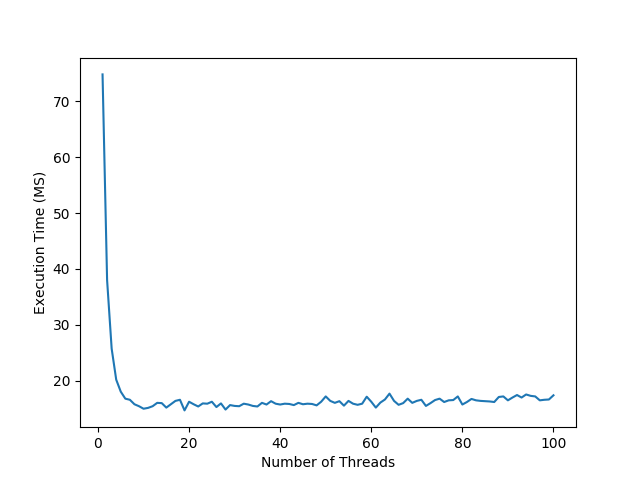
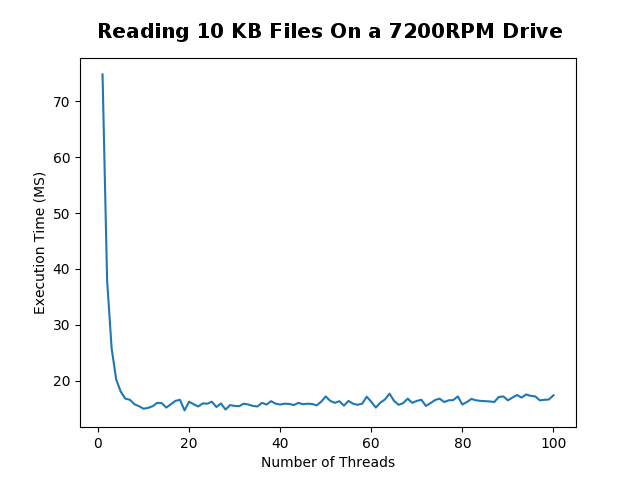
Finished writing blog post on multi threaded file io performance.

Changed region(s): [[0.1562, 0.0312, 0.875, 0.0938]]

diff --git a/blogContent/posts/programming/multi-threaded-file-io.md b/blogContent/posts/programming/multi-threaded-file-io.md
@@ -1,0 +1,316 @@
+# Background
+
+Suppose that you have a large quantity of files that you want your program to ingest.
+Is it faster to sequentially read each file or, read the files in parallel using multiple threads?
+Browsing this question online will give varied answers from confused people on discussion threads.
+Reading resent research papers on multi threaded IO did not quite provide a clear answer my question.
+
+A ton of people argue that multiple threads don't increase file throughput
+ because at the end of the day a HHD can only read
+one file at a time. Adding more CPU cores into the mix would
+actually slow down the file ingest because the HHD would have to 
+take turns between reading fragments of different files. The seek speed of the HHD would
+heavily degrade the performance.
+
+Other people on the internet claim that using the same number of
+threads as your computer has is the most efficient way to read in files.
+With these claims I did not find any evidence backing their statements.
+However, I did find plenty of dead links -- you gotta love old internet forms. 
+The argument typically goes that using more threads will decrease the idle time of
+the HHD. Plus, if you are running any form of raid or software storage like
+[CEPH](https://ceph.com/ceph-storage/) you have plenty to gain from using multiple threads.
+If you use more threads than your CPU has, you will obviously suffer performance wise because
+the threads will be idle while they wait for each other to finish. 
+
+I decided to set out and determine what was the fastest approach by taking empirical measurements.
+
+# Results
+
+## Small Files
+I started the experiment by reading 500 randomly generated 
+ 10 KB text files. I tested using a few hard drive types and 
+configurations. The computer which I ran all the tests on
+ has a Ryzen 1700x processor with 16 threads and 8 cores. 
+ Each test point took a sample of 20 trials to find the average. 
+ 
+![slow HHD reading 500 10kb files](media/fileIO/100ThreadsOldSpinningHHD.png) 
+  
+![slow HHD reading 500 10kb files](media/fileIO/slowDrive500.png)   
+
+![Raidz 2 500 10kb files](media/fileIO/FreenasServer.png)   
+
+![nvme SSD drive](media/fileIO/nvmeDrive.png)
+
+![nvme SSD drive](media/fileIO/nvme500Threads.png)   
+
+## Big Files
+
+After seeing the astonishing results of reading 10 KB files,
+I wondered if anything changed if the files were larger.
+Unlike the last set of trials, I did not take a sample size
+to calculate the average. Although it would have made smoother graphs,
+that would have taken way too long to do on the HHD I was using. 
+I only tested with 1 MB and 3.6 MB as the "large" files because any larger
+files *really* slowed down the tests. I initially wanted to test with 18 MB
+files running 10 trials at each thread interval. I backed away from doing that
+because it would have required terabytes of file IO to be performed and, Java *really* does
+not like to read 18 MB files as strings. 
+
+![1MB files](media/fileIO/1mbFilesx124OldHHD.png)   
+
+![3.6MB files](media/fileIO/3.6MBFilex31.png)
+
+# Conclusions
+
+For small files it is clear that using more CPU threads gives you a 
+very substantial boost in performance. However, once you use the same
+number of threads as your CPU has, you hit the optimal performance and any more
+threads decreases performance.
+
+For larger files, more threads does not equate to better performance. Although
+there is a small bump in performance using two threads, any more threads heavily 
+degrades performance. 
+
+![CPU Usage During Big File Test](media/fileIO/bigFileCPU.png)
+
+Reading large files like this totally renders your computer unusable.
+While I was running the 3.6 MB file test my computer was completely unresponsive.
+I had to fight just to get the screenshot that I included in this blog post. 
+
+# Code
+
+All of the code I wrote for this can be found on my [github](https://github.com/jrtechs/RandomScripts/tree/master/multiThreadedFileIO)
+;however, I also want to put it here so I can make a few remarks about it. 
+
+## Basic File IO
+
+This first class is used to represent a task which we want to run in parallel with other tasks. In this case it is just
+reading a file from the disk. Nothing exciting about this file. 
+
+```java
+/**
+ * Simple method to be used by the task manager to do
+ * file io.
+ *
+ * @author Jeffery Russell
+ */
+public class ReadTask
+{
+    private String filePath;
+
+    public ReadTask(String fileName)
+    {
+        this.fileName = fileName;
+    }
+
+    public void runTask()
+    {
+        String fileContent = new String();
+        try
+        {
+            BufferedReader br = new BufferedReader(
+                    new InputStreamReader(new FileInputStream(filePath)));
+            String line;
+            while ((line = br.readLine()) != null)
+                fileContent = fileContent.concat(line);
+            br.close();
+        }
+        catch (IOException e)
+        {
+            e.printStackTrace();
+        }
+    }
+}
+```
+
+## Multi Threaded Task Manager
+
+This is where the exciting stuff happens. Essentially, this class lets your specify
+a list of tasks which must be complete.
+This class will then run all of those tasks in parallel using X threads
+until they are all complete. What is interesting is how I managed the race conditions
+to prevent multi threaded errors while keeping the execution of tasks efficient. 
+
+```java
+import java.util.List;
+import java.util.Vector;
+
+/**
+ * A class which enables user to run a large chunk of
+ * tasks in parallel efficiently.
+ *
+ * @author Jeffery 1-29-19
+ */
+public class TaskManager
+{
+    /** Number of threads to use at once */
+    private int threadCount;
+
+    /** Meaningless tasks to run in parallel */
+    private List<ReadTask> tasks;
+
+    public TaskManager(int threadCount)
+    {
+        this.threadCount = threadCount;
+        //using vectors because they are thread safe
+        this.tasks = new Vector<>();
+    }
+
+    public void addTask(ReadTask t)
+    {
+        tasks.add(t);
+    }
+
+    /**
+     * This is the fun method.
+     *
+     * This will run all of the tasks in parallel using the
+     * desired amount of threads untill all of the jobs are
+     * complete.
+     */
+    public void runTasks()
+    {
+        int desiredThreads = threadCount > tasks.size() ?
+                tasks.size() : threadCount;
+
+        Thread[] runners = new Thread[desiredThreads];
+        for(int i = 0; i < desiredThreads; i++)
+        {
+            runners[i] = new Thread(()->
+            {
+                ReadTask t = null;
+                while(true)
+                {
+                    //need synchronized block to prevent
+                    //race condition between isEmpty and remove
+                    synchronized (tasks)
+                    {
+                        if(!tasks.isEmpty())
+                            t = tasks.remove(0);
+                    }
+                    if(t == null)
+                    {
+                        break;
+                    }
+                    else
+                    {
+                        t.runTask();
+                        t = null;
+                    }
+                }
+            });
+            runners[i].start();
+        }
+        for(int i = 0; i < desiredThreads; i++)
+        {
+            try
+                runners[i].join();
+            catch (Exception e)
+                e.printStackTrace();
+        }
+    }
+}
+```
+
+## Random Data Generation
+
+To prevent caching or anything funky, I wanted to use completely random files of equal size.
+I initially generated a random character and then concated that onto a string.
+After repeating that step a few thousand times, you have a random string to save
+to your disk.
+
+```java
+private static char rndChar()
+{
+    // or use Random or whatever
+    int rnd = (int) (Math.random() * 52);
+    char base = (rnd < 26) ? 'A' : 'a';
+    return (char) (base + rnd % 26);
+}
+```
+
+Problem: string concatenation is terribly inefficient in Java.
+When attempting to make a 18 MB file it took nearly 4 minutes and I wanted
+to create 500 files. Yikes.
+
+Solution: create a random byte array so I don't need to do any string concatenations.
+This turned out to be **very** fast.
+
+```java
+for(int i = 0; i < 500; i++)
+{
+    byte[] array = new byte[2000000];
+    new Random().nextBytes(array);
+    String s = new String(array, Charset.forName("UTF-8"));
+    saveToDisk(s, "./testData/" + i + ".txt");
+    System.out.println("Saved " + i + ".txt");
+}
+```
+
+
+## Running the Experiments
+
+I created an ugly main method to run all the experiments with the
+task manager. To run trials with a different number of CPU threads or sample size,
+I simply adjusted the loop variables. 
+
+```java
+import java.util.*;
+
+/**
+ * File to test the performance of multi threaded file
+ * io by reading a large quantity of files in parallel
+ * using a different amount of threads.
+ *
+ * @author Jeffery Russell 1-31-19
+ */
+public class MultiThreadedFileReadTest
+{
+    public static void main(String[] args)
+    {
+        List<Integer> x = new ArrayList<>();
+        List<Double> y = new ArrayList<>();
+        for(int i = 1; i <= 64; i++) //thread count
+        {
+            long threadTotal = 0;
+            for(int w = 0; w < 20; w++) // sample size
+            {
+                TaskManager boss = new TaskManager(i);
+
+                for(int j = 0; j < 500; j++) // files to read
+                {
+                    boss.addTask(new ReadTask("./testData/" + i + ".txt"));
+                }
+                long startTime = System.nanoTime();
+                boss.runTasks();
+                long endTime = System.nanoTime();
+                long durationMS = (endTime - startTime)/1000000;
+                threadTotal+= durationMS;
+            }
+            x.add(i);
+            y.add(threadTotal/20.0); //finds average
+        }
+        System.out.println(x);
+        System.out.println(y);
+    }
+}
+```
+
+## Graphing the Results
+
+I am not going to lie, most Java graphics libraries are terrible.
+Simply pasting the output of a Java list into [matplotlib](https://matplotlib.org/)
+is the easiest way to make presentable graphs. If I had more time, I would export the results to
+JSON for a javascript graph like [D3](https://d3js.org/) which I could embed on my website. 
+
+```python
+import matplotlib.pyplot as plt
+
+xList = []
+yList = []
+plt.plot(xList, yList)
+plt.xlabel('Number of Threads')
+plt.ylabel('Execution Time (MS)')
+
+plt.show()
+```

diff --git a/docs/sqlConfig.md b/docs/sqlConfig.md
@@ -43,12 +43,6 @@ download_count mediumint not null,
 primary key(download_id)
 );
 
-create table popular_posts(
-popular_post_id mediumint unsigned not null AUTO_INCREMENT,
-post_id mediumint unsigned not null,
-primary key(popular_post_id)
-);
-
 create table traffic_log(
 log_id mediumint unsigned not null AUTO_INCREMENT,
 url varchar(60) not null,
